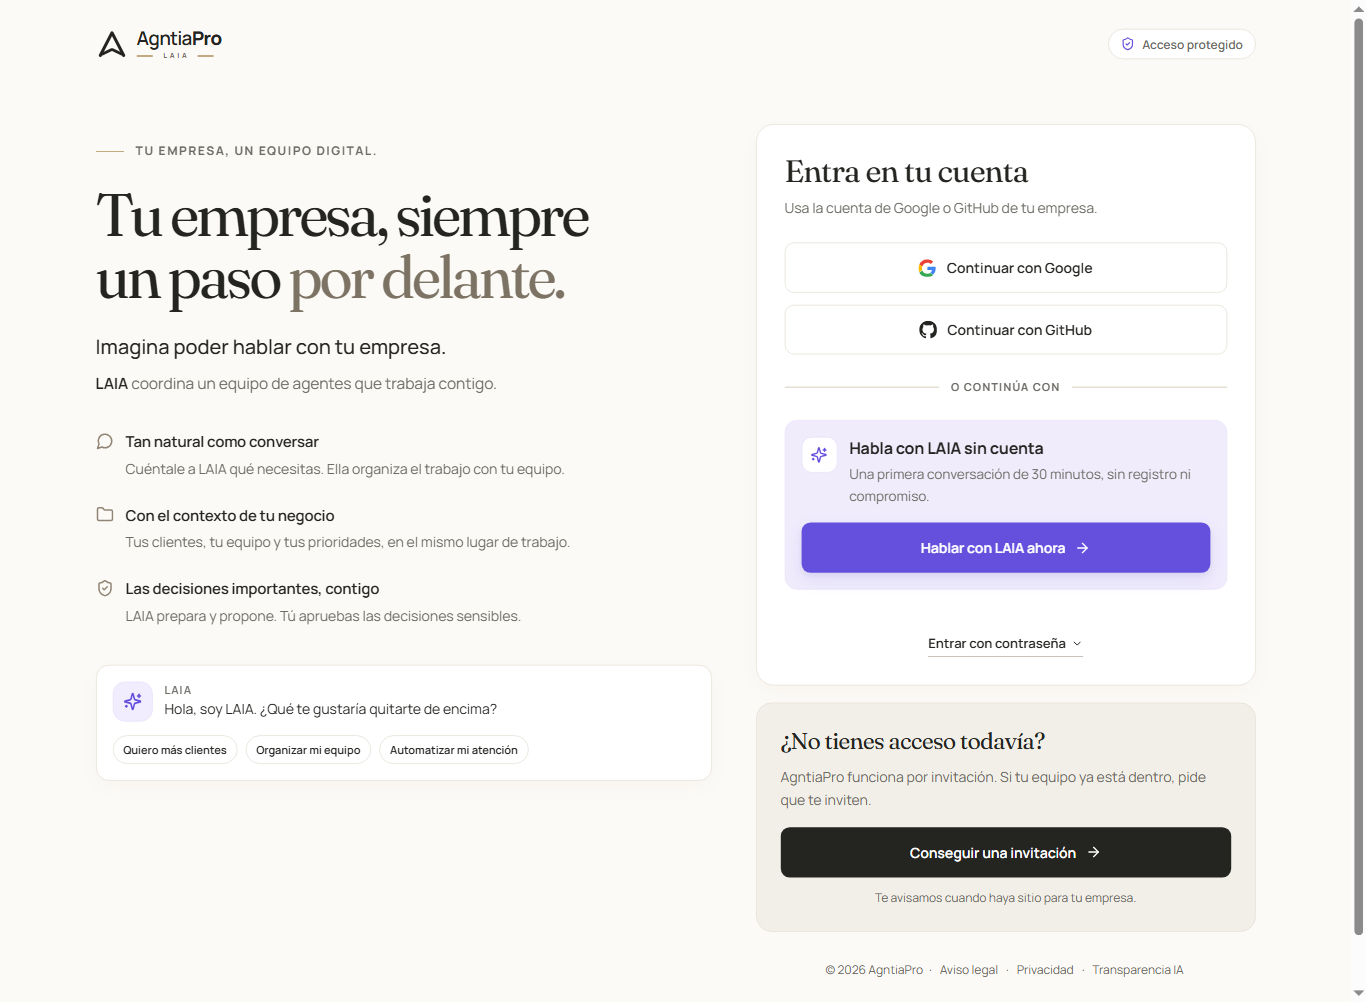
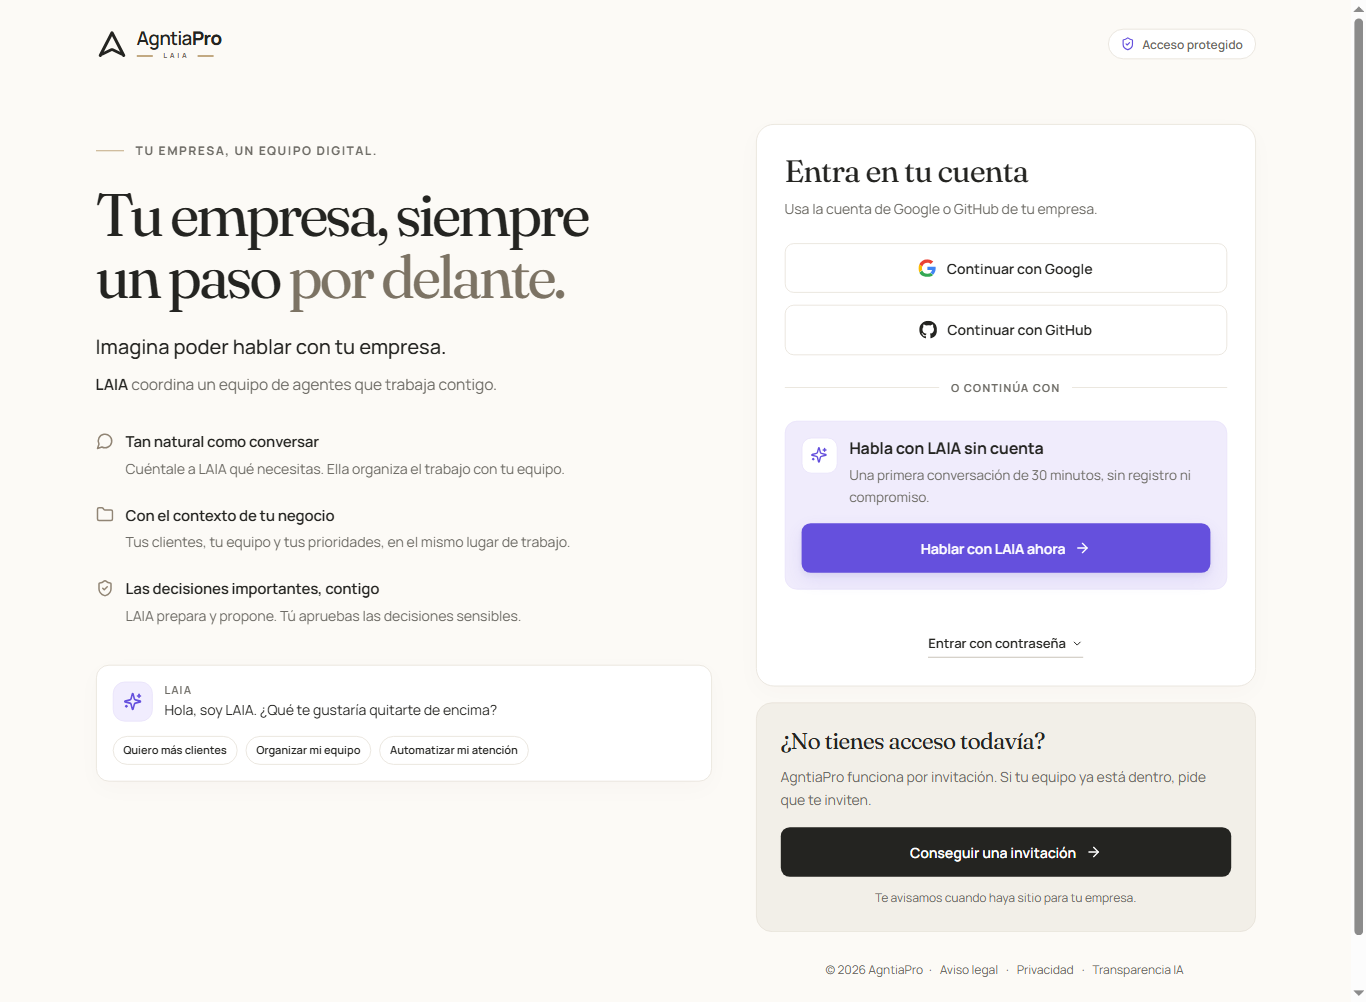
fix(login): acceso antes que el texto en móvil y modal de invitación más amplio
En pantallas de hasta 1023 px el módulo de acceso va primero y el texto editorial
después, con invitación y legal al final; en escritorio nada cambia. El modal pasa
de 440 a 520 px con 32 px de aire interior (28/24 en móvil) para que el formulario
no quede pegado a los bordes.

🤖 Generated with Codebuff

diff --git a/apps/ui-lab/docs/dashboards/02-login/componentes-finales/apps/ui-lab/src/login-v3/login-v3.css b/apps/ui-lab/docs/dashboards/02-login/componentes-finales/apps/ui-lab/src/login-v3/login-v3.css
@@ -179,13 +179,17 @@
 .login-v3 .lv3-main {
   display: grid;
   grid-template-columns: minmax(0, 616fr) minmax(0, 500fr);
-  gap: 44px;
+  column-gap: 44px;
+  row-gap: 16px;
   align-items: start;
   padding-top: 36px;
   padding-bottom: 64px;
 }
 
+/* Hero en la columna izquierda; acceso y pie de acceso apilados a la derecha. */
 .login-v3 .lv3-hero {
+  grid-column: 1;
+  grid-row: 1 / span 2;
   padding-top: 18px;
   min-width: 0;
 }
@@ -357,11 +361,23 @@
 
 /* Columna de acceso. */
 .login-v3 .lv3-access {
+  grid-column: 2;
+  grid-row: 1;
   display: flex;
   flex-direction: column;
   gap: 16px;
   min-width: 0;
   scroll-margin-top: 24px;
+}
+
+/* Invitación y legal bajo la tarjeta (escritorio) o al final (móvil). */
+.login-v3 .lv3-access-foot {
+  grid-column: 2;
+  grid-row: 2;
+  display: flex;
+  flex-direction: column;
+  gap: 16px;
+  min-width: 0;
 }
 
 .login-v3 .lv3-access:focus {
@@ -849,13 +865,13 @@
 
 /* Modal de invitación. */
 .login-v3 .lv3-dialog {
-  width: calc(100% - 32px);
-  max-width: 440px;
+  width: calc(100% - 40px);
+  max-width: 520px;
   max-height: 90dvh;
   margin: auto;
   padding: 0;
   border: 1px solid var(--ag-line);
-  border-radius: 16px;
+  border-radius: 18px;
   background: var(--ag-surface);
   color: var(--ag-ink);
   font-family: Manrope, system-ui, sans-serif;
@@ -885,7 +901,7 @@
 }
 
 .login-v3 .lv3-dialog-inner {
-  padding: 24px;
+  padding: 32px;
 }
 
 .login-v3 .lv3-dialog-head {
@@ -1001,7 +1017,7 @@
 /* 1024–1199: gap menor y H1 52. */
 @media (max-width: 1199px) {
   .login-v3 .lv3-main {
-    gap: 32px;
+    column-gap: 32px;
   }
 
   .login-v3 h1 {
@@ -1013,7 +1029,7 @@
   }
 }
 
-/* <=1023: una columna, hero arriba y acceso debajo. */
+/* <=1023: una columna; primero el acceso y después el texto editorial. */
 @media (max-width: 1023px) {
   .login-v3 .lv3-wrap {
     max-width: 640px;
@@ -1026,13 +1042,30 @@
 
   .login-v3 .lv3-main {
     grid-template-columns: minmax(0, 1fr);
-    gap: 32px;
-    padding-top: 8px;
+    column-gap: 0;
+    row-gap: 32px;
+    padding-top: 16px;
     padding-bottom: 48px;
   }
 
+  .login-v3 .lv3-access,
+  .login-v3 .lv3-hero,
+  .login-v3 .lv3-access-foot {
+    grid-column: 1;
+    grid-row: auto;
+  }
+
+  .login-v3 .lv3-access {
+    order: 1;
+  }
+
   .login-v3 .lv3-hero {
+    order: 2;
     padding-top: 0;
+  }
+
+  .login-v3 .lv3-access-foot {
+    order: 3;
   }
 
   .login-v3 h1 {
@@ -1051,6 +1084,19 @@
 @media (max-width: 430px) {
   .login-v3 .lv3-wrap {
     padding-inline: 16px;
+  }
+
+  .login-v3 .lv3-dialog {
+    width: calc(100% - 32px);
+    border-radius: 16px;
+  }
+
+  .login-v3 .lv3-dialog-inner {
+    padding: 28px 24px;
+  }
+
+  .login-v3 .lv3-dialog-head h2 {
+    font-size: 22px;
   }
 
   .login-v3 h1 {

diff --git a/apps/ui-lab/src/login-v3/login-v3.css b/apps/ui-lab/src/login-v3/login-v3.css
@@ -179,13 +179,17 @@
 .login-v3 .lv3-main {
   display: grid;
   grid-template-columns: minmax(0, 616fr) minmax(0, 500fr);
-  gap: 44px;
+  column-gap: 44px;
+  row-gap: 16px;
   align-items: start;
   padding-top: 36px;
   padding-bottom: 64px;
 }
 
+/* Hero en la columna izquierda; acceso y pie de acceso apilados a la derecha. */
 .login-v3 .lv3-hero {
+  grid-column: 1;
+  grid-row: 1 / span 2;
   padding-top: 18px;
   min-width: 0;
 }
@@ -357,11 +361,23 @@
 
 /* Columna de acceso. */
 .login-v3 .lv3-access {
+  grid-column: 2;
+  grid-row: 1;
   display: flex;
   flex-direction: column;
   gap: 16px;
   min-width: 0;
   scroll-margin-top: 24px;
+}
+
+/* Invitación y legal bajo la tarjeta (escritorio) o al final (móvil). */
+.login-v3 .lv3-access-foot {
+  grid-column: 2;
+  grid-row: 2;
+  display: flex;
+  flex-direction: column;
+  gap: 16px;
+  min-width: 0;
 }
 
 .login-v3 .lv3-access:focus {
@@ -849,13 +865,13 @@
 
 /* Modal de invitación. */
 .login-v3 .lv3-dialog {
-  width: calc(100% - 32px);
-  max-width: 440px;
+  width: calc(100% - 40px);
+  max-width: 520px;
   max-height: 90dvh;
   margin: auto;
   padding: 0;
   border: 1px solid var(--ag-line);
-  border-radius: 16px;
+  border-radius: 18px;
   background: var(--ag-surface);
   color: var(--ag-ink);
   font-family: Manrope, system-ui, sans-serif;
@@ -885,7 +901,7 @@
 }
 
 .login-v3 .lv3-dialog-inner {
-  padding: 24px;
+  padding: 32px;
 }
 
 .login-v3 .lv3-dialog-head {
@@ -1001,7 +1017,7 @@
 /* 1024–1199: gap menor y H1 52. */
 @media (max-width: 1199px) {
   .login-v3 .lv3-main {
-    gap: 32px;
+    column-gap: 32px;
   }
 
   .login-v3 h1 {
@@ -1013,7 +1029,7 @@
   }
 }
 
-/* <=1023: una columna, hero arriba y acceso debajo. */
+/* <=1023: una columna; primero el acceso y después el texto editorial. */
 @media (max-width: 1023px) {
   .login-v3 .lv3-wrap {
     max-width: 640px;
@@ -1026,13 +1042,30 @@
 
   .login-v3 .lv3-main {
     grid-template-columns: minmax(0, 1fr);
-    gap: 32px;
-    padding-top: 8px;
+    column-gap: 0;
+    row-gap: 32px;
+    padding-top: 16px;
     padding-bottom: 48px;
   }
 
+  .login-v3 .lv3-access,
+  .login-v3 .lv3-hero,
+  .login-v3 .lv3-access-foot {
+    grid-column: 1;
+    grid-row: auto;
+  }
+
+  .login-v3 .lv3-access {
+    order: 1;
+  }
+
   .login-v3 .lv3-hero {
+    order: 2;
     padding-top: 0;
+  }
+
+  .login-v3 .lv3-access-foot {
+    order: 3;
   }
 
   .login-v3 h1 {
@@ -1051,6 +1084,19 @@
 @media (max-width: 430px) {
   .login-v3 .lv3-wrap {
     padding-inline: 16px;
+  }
+
+  .login-v3 .lv3-dialog {
+    width: calc(100% - 32px);
+    border-radius: 16px;
+  }
+
+  .login-v3 .lv3-dialog-inner {
+    padding: 28px 24px;
+  }
+
+  .login-v3 .lv3-dialog-head h2 {
+    font-size: 22px;
   }
 
   .login-v3 h1 {

diff --git a/apps/ui-lab/docs/dashboards/02-login/componentes-finales/apps/ui-lab/src/login-v3/LoginV3.tsx b/apps/ui-lab/docs/dashboards/02-login/componentes-finales/apps/ui-lab/src/login-v3/LoginV3.tsx
@@ -498,7 +498,10 @@ export default function LoginV3({ onLogin }: LoginV3Props) {
               </div>
             </div>
           </section>
+        </div>
 
+        {/* Invitación y legal: en escritorio van bajo la tarjeta; en móvil, al final. */}
+        <div className="lv3-access-foot">
           <section className="lv3-invite lv3-anim lv3-d3" aria-labelledby="login-v3-invite-title">
             <h2 id="login-v3-invite-title">¿No tienes acceso todavía?</h2>
             <p>

diff --git a/apps/ui-lab/src/login-v3/LoginV3.tsx b/apps/ui-lab/src/login-v3/LoginV3.tsx
@@ -498,7 +498,10 @@ export default function LoginV3({ onLogin }: LoginV3Props) {
               </div>
             </div>
           </section>
+        </div>
 
+        {/* Invitación y legal: en escritorio van bajo la tarjeta; en móvil, al final. */}
+        <div className="lv3-access-foot">
           <section className="lv3-invite lv3-anim lv3-d3" aria-labelledby="login-v3-invite-title">
             <h2 id="login-v3-invite-title">¿No tienes acceso todavía?</h2>
             <p>

diff --git a/apps/ui-lab/docs/dashboards/02-login/QA.md b/apps/ui-lab/docs/dashboards/02-login/QA.md
@@ -56,6 +56,8 @@ alcanza a rechazar alguna petición. En CI eso se veía como `Unable to preload 
 | H1 desktop | 60 px, line-height 1,035, tracking −0,052em | igual |
 | H1 1024 / 768 / 390 | 52 / 46 / 38 px | 52 / ≤1023 / ≤430 38 |
 | Chips | 11 px, padding 6 × 10, radio 100 | 11 px, padding 6 × 10 (CONTRATO-VISUAL) |
+| Orden móvil (≤1023) | acceso → texto editorial → invitación y legal | decisión del founder: el acceso va primero |
+| Modal de invitación | 520 px de ancho, 32 px de padding interior (28/24 en ≤430) | más tamaño y aire, pedido del founder |
 | CTA violeta | `rgb(101, 80, 221)` sobre `#fff` (estilos computados) | `--ag-violet`, texto blanco |
 | Overflow horizontal | 0 en 320, 360, 390, 430, 768, 1024, 1280, 1366, 1440, 1920 | ninguno |
 | Fuentes | Fraunces y Manrope `status: loaded` con Google Fonts bloqueado | sin fallback silencioso |
@@ -103,8 +105,8 @@ En `capturas/` (regeneradas en esta pasada):
 - `login-v3-1366.png` — estado inicial, 1366×1002.
 - `login-v3-chat-chip-1366.png` — chat abierto con chip precargado.
 - `login-v3-password-1366.png` — contraseña, error y aviso de entorno.
-- `login-v3-invitacion-viewport-1366.png` — modal de invitación sin recorte de captura.
-- `login-v3-invitacion-390.png` — modal en móvil.
+- `login-v3-invitacion-viewport-1366.png` — modal de invitación sin recorte de captura (520 px).
+- `login-v3-invitacion-390.png` — modal en móvil, con el nuevo aire interior.
 - `login-v3-390.png`, `login-v3-768.png`, `login-v3-1920.png` — responsive.
 - `login-v3-artifact-1366.png` — **evidencia histórica**: render del artifact de run 234 (`c6cf874…`),
   anterior a estas correcciones. Se conserva como registro, no describe el estado actual.
@@ -134,6 +136,8 @@ propia ejecución de QA a partir de su propio build.
 | Sin pruebas de navegador en el workflow | Añadido, opt-in | input `browser_qa` (por defecto `false`), Playwright fijado y resultado en `qa/qa-report.json` |
 | El empaquetado hacía fallar el job en ramas sin la vista | Corregido | paso `Detect Login V3 view`; empaquetado y artifact condicionados a `present == 'true'` |
 | Arquitectura monolítica | No aplicado | recomendación de mantenibilidad, no bloqueante; queda como siguiente campaña |
+| En móvil el texto editorial iba antes que el acceso | Corregido | a 390 px: tarjeta de acceso y=114, hero y=732, invitación+legal y=1509 |
+| Modal de invitación apretado y pequeño | Corregido | 520×589 px con 32 px de padding a 1366; 343 px y 28/24 de padding a 390 |
 
 El manifiesto anterior listaba `apps/ui-lab/src/vite.config.ts`; el archivo real es
 `apps/ui-lab/vite.config.ts`. Corregido en `componentes-finales/MANIFEST-SHA256.txt`.

diff --git a/apps/ui-lab/docs/dashboards/02-login/BITACORA-EJECUCION.md b/apps/ui-lab/docs/dashboards/02-login/BITACORA-EJECUCION.md
@@ -90,6 +90,21 @@ en el navegador Cloud (el entorno no puede lanzar Chromium local: faltan `libnsp
 `sudo`). Capturas regeneradas. El artifact de run 234 sigue siendo el de `c6cf874…`: requiere un nuevo
 `workflow_dispatch` con `deploy: false` para publicar este estado.
 
+## T08 · Corrección visual pedida por el founder (2026-11-24)
+
+Dos correcciones, sin tocar copy, composición de escritorio ni arquitectura:
+
+1. **Móvil (≤1023 px):** el acceso va primero y el texto editorial después; invitación y legal quedan al
+   final. La columna de acceso se divide en `.lv3-access` (tarjeta) y `.lv3-access-foot` (invitación +
+   legal) para poder ordenar sin duplicar markup; en escritorio ambas siguen apiladas a la derecha.
+   Medido a 390 px: tarjeta y=114, hero y=732, pie y=1509.
+2. **Modal de invitación:** 520 px de ancho (antes 440) con 32 px de padding interior (antes 24) y radio
+   18; en ≤430, 343 px útiles con 28 × 24 de padding. Medido: 520×589 a 1366 y 343×603 a 390.
+
+Verificación: `typecheck` y `build` en verde; medidas y capturas tomadas en navegador real a 390 y 1366
+(`login-v3-390.png`, `login-v3-1366.png`, `login-v3-invitacion-390.png`,
+`login-v3-invitacion-viewport-1366.png`). El escritorio queda como estaba.
+
 ## Pendientes
 
 - Aprobación visual del founder (no se declara 10/10).
